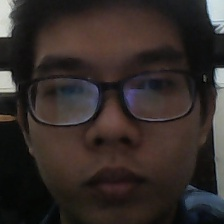
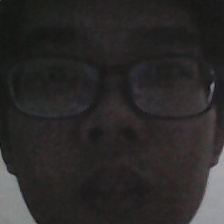
update

diff --git a/public/model/Trainbase.py b/public/model/Trainbase.py
@@ -1,19 +1,21 @@
 from keras.models import Sequential
 from keras.layers import Dropout, Input, Dense, Conv2D,Flatten
+from keras.engine import  Model
 from keras.preprocessing.image import ImageDataGenerator
-from keras.optimizers import Adam
 from keras.callbacks import TensorBoard
 from keras import backend as K
 from keras.models import load_model
 from keras.applications import VGG19
+from keras_vggface.vggface import VGGFace
+from keras.optimizers import Adam, SGD
 import tensorflow as tf
 import numpy as np
 import os
 import automaticTrain
 basePath = os.path.dirname(os.path.dirname(os.path.abspath(__file__)))
 K.clear_session()
-model_dir = basePath + '/model/assets/vgg19model.h5'
-trainLabels_dir = basePath + '/model/assets/labelrgb.npy'
+model_dir = basePath + '/model/assets/model.h5'
+trainLabels_dir = basePath + '/model/assets/label.npy'
 
 class Trainbase:
     def __init__(self):

diff --git a/public/model/Preprobase.py b/public/model/Preprobase.py
@@ -52,15 +52,12 @@ class Preprobase:
         return True
     
     def cropresize(self,original_image):
-        (x, y, w, h, c) = self.detectFace(original_image)
-        if (w > h):
-            h = w
-        else:
-            w = h
-        newC = int((x+x+w)/2)
-        diffC = newC - c
-        x = x - diffC
-        image = original_image[int(y):int(y)+int(w), int(x):int(x)+int(h)]
+        (column, row, width, height, cx, cy) = self.detectFace(original_image)
+        height = width
+        newCY = int((row +row+height)/2)
+        diffCY = newCY - cy
+        row = row - diffCY
+        image = original_image[int(row):int(row)+int(width), int(column):int(column)+int(height)]
         resized = cv.resize(image, (224, 224))
         cv.imwrite(basePath+'/model/result.jpg', resized)
         reshapeImg = resized.reshape(1,224,224,3)

diff --git a/public/model/Main.py b/public/model/Main.py
@@ -25,10 +25,10 @@ app.config['MYSQL_USER'] = 'root'
 app.config['MYSQL_PASSWORD'] = ''
 app.config['MYSQL_DB'] = 'pengenalanpola'
 basePath = os.path.dirname(os.path.dirname(os.path.abspath(__file__)))
-try:
-    train = Trainbase()
-except Exception as e:
-    train = []
+# try:
+train = Trainbase()
+# except Exception as e:
+    # train = []
 
 prepro = Preprobase()
 mysql = MySQL(app)
